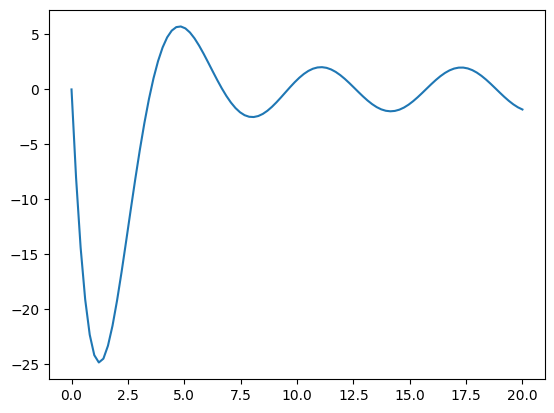
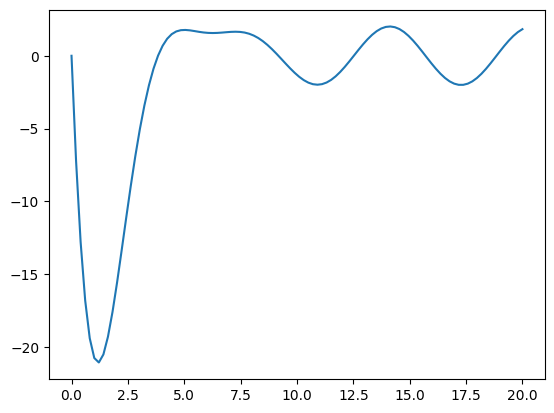
.

diff --git a/NSCI0005/python_book/html/searchindex.js b/NSCI0005/python_book/html/searchindex.js
@@ -1,1 +1,1 @@
-Search.setIndex({docnames:["1_introduction/cocalc","1_introduction/fundamentals","1_introduction/week_1","2_arrays_and_plots/arrays_and_plots","2_arrays_and_plots/hw_answers","2_arrays_and_plots/projectiles","2_arrays_and_plots/week_2","3_complex_numbers/hw_answers_6836","3_complex_numbers/notes","4_sequences_series/hw4_9511","4_sequences_series/notes","5_taylor_series/hw_a81","5_taylor_series/notes","6_partial_differentiation/hw_oasdg883","6_partial_differentiation/notes","7_odes_1/hw_aitthsg45","7_odes_1/notes","8_odes_2/hw_510736","8_odes_2/notes","intro"],envversion:{"sphinx.domains.c":2,"sphinx.domains.changeset":1,"sphinx.domains.citation":1,"sphinx.domains.cpp":5,"sphinx.domains.index":1,"sphinx.domains.javascript":2,"sphinx.domains.math":2,"sphinx.domains.python":3,"sphinx.domains.rst":2,"sphinx.domains.std":2,"sphinx.ext.intersphinx":1,"sphinxcontrib.bibtex":9,sphinx:56},filenames:["1_introduction\\cocalc.md","1_introduction\\fundamentals.md","1_introduction\\week_1.md","2_arrays_and_plots\\arrays_and_plots.md","2_arrays_and_plots\\hw_answers.ipynb","2_arrays_and_plots\\projectiles.ipynb","2_arrays_and_plots\\week_2.md","3_complex_numbers\\hw_answers_6836.ipynb","3_complex_numbers\\notes.ipynb","4_sequences_series\\hw4_9511.ipynb","4_sequences_series\\notes.ipynb","5_taylor_series\\hw_a81.ipynb","5_taylor_series\\notes.ipynb","6_partial_differentiation\\hw_oasdg883.ipynb","6_partial_differentiation\\notes.ipynb","7_odes_1\\hw_aitthsg45.ipynb","7_odes_1\\notes.ipynb","8_odes_2\\hw_510736.ipynb","8_odes_2\\notes.ipynb","intro.md"],objects:{},objnames:{},objtypes:{},terms:{"0":[0,1,3,4,5,7,8,9,10,11,12,14,15,16,17,18],"0000000000000002j":8,"0000000000000004":8,"00000000e":10,"00763947766738815":11,"01":10,"02":10,"03":10,"04":10,"05":10,"0j":8,"0x194c22fd048":16,"0x1aa78980e48":10,"0x1aa7ad067c8":10,"0x1ebde029448":7,"0x1f4dcda0308":8,"0x20725333748":15,"0x207253d4748":15,"0x270faac4608":17,"0x2b986fe4988":3,"1":[0,1,3,4,5,7,9,11,13,15],"10":[1,3,4,5,10,14,15,16,18],"100":[4,5,9,11,12,13,14,17,18],"1000":[1,16],"101":9,"10351562e":10,"11":[3,8],"115":4,"12":5,"1200000":1,"12500000e":10,"139":15,"13j":7,"14":3,"15":[0,3,4,10,15,16,18],"16":[3,7,15],"17":[14,15],"18":3,"1a":9,"1b":9,"1c":9,"1j":[7,8],"2":[0,1,7,12,13,15,16,17,18],"20":[8,9,14,17],"200":5,"21":3,"210":4,"21j":7,"220":4,"22070312e":10,"23":0,"230":4,"24":10,"25":3,"25000000e":10,"258":4,"260":4,"262":4,"27":3,"2e6":1,"2e9":5,"2m":18,"2x":18,"2y":14,"3":[0,1,3,4,5,9,10,11,12,13,14,15,17,18],"33333333":10,"34":1,"34e":1,"35":1,"365":5,"37":1,"3893006300":8,"39":5,"3j":7,"3x":0,"4":[0,1,4,5,8,9,12],"40":17,"400":5,"44140625e":10,"4455":1,"45":1,"46":4,"49":3,"4mk":18,"5":[1,3,8,9,10,13,14,15,17,18],"50":[3,9,10,13,15],"500":[0,9],"50000":0,"50000000e":10,"512":1,"56250000e":10,"5e6":1,"5j":7,"5x":1,"6":[1,3,10,11,12,15],"60j":8,"66666667":10,"6i":8,"6j":8,"7":[3,10,12],"70":1,"7071067811865476":8,"7071067811865476j":8,"7071067811865477":8,"7071067811865477j":8,"71428571":10,"7172926344657":4,"71828":10,"74":3,"75":[3,10,13],"76562500e":10,"77777778":10,"8":[1,3,7,10],"80":18,"81":[3,4,5],"81250000e":10,"81818182":10,"83333333":10,"8369701987210297e":3,"84615385":10,"85714286":10,"86666667":10,"875":10,"88235294":10,"88281250e":10,"88888889":10,"89473684":10,"9":[1,3,4,10,15],"9047619":10,"90625000e":10,"90909091":10,"91304348":10,"91666667":10,"92":10,"92307692":10,"92592593":10,"92857143":10,"93103448":10,"93333333":10,"93548387":10,"9375":10,"93939394":10,"94117647":10,"94285714":10,"94444444":10,"94594595":10,"94736842":10,"94871795":10,"95":10,"95121951":10,"95238095":10,"95312500e":10,"95348837":10,"95454545":10,"95555556":10,"95652174":10,"95744681":10,"95833333":10,"95918367":10,"96":10,"96875":10,"984375":10,"99":1,"9921875":10,"99609375":10,"99804688":10,"99902344":10,"99951172":10,"99975586":10,"99987793":10,"99993896":10,"case":[1,3],"class":8,"default":1,"do":[0,1,5,8],"final":[0,3,5,8,16],"float":[0,1,3],"function":[0,1,3,5,8,10,12,14],"import":[0,1,4,5,7,8,9,10,11,12,13,14,15,16,17,18],"int":1,"long":0,"new":[1,3,5,10],"return":[0,3],"try":[0,3,8,10,14],A:[0,1,3,4,5,8,12,14,16,17,18,19],And:14,As:[0,10],At:16,But:10,By:[0,3,4,5,12,14,18],For:[0,1,3,5,8,10,12,14],If:[0,1,3,10,18],In:[0,3,8,16],It:[0,1],On:18,One:3,That:[5,16],The:[0,1,3,5,8,10,12,14,16,18],Then:[0,5,16,18],To:[0,3,5,10],_:1,__counter__:5,__main__:15,__name__:15,a_n:10,abl:[0,1,3],about:[0,1],abov:[4,5,18],absolu:5,ac:0,acceler:[4,5],accept:4,access:[0,3,10],accident:1,accord:4,account:0,accur:4,achiev:5,add:[3,5],addit:[1,3,8],address:0,advic:0,ae:16,after:[0,1,3,12],ag:1,again:3,against:[5,18],air:4,albeit:10,algorithm:0,alia:3,alias:3,align:[5,18],all:[0,1,8,10],allow:[0,3,18],alpha:[0,1],alreadi:0,also:[0,3,5,18],alwai:[0,1,8],an:[0,1,3,4,5,8,10,12,14,16,18],angl:[4,15,16,18],ani:[0,3,4,5,16],anoth:[0,1,5,8,14,18],answer:[3,5,8],anyth:8,appdata:[8,11,15],appear:[0,1,10],append:1,appli:3,appropri:0,approx:5,approxim:[4,12],ar:[0,1,3,5,8,10,16,18],arang:[3,5,9,10],arbitrari:[16,18],argand:8,argument:[1,3,8],arithmet:3,around:5,arrai:[0,4,10,12,16,18],arrow:[0,15,16,18],ask:0,assign:1,assum:5,asterisk:0,astronomynot:5,asymptot:0,attempt:0,automat:0,awai:0,ax:[3,5,7,8],axhlin:[7,8],axi:[4,5,7,8,12,16],axvlin:[7,8],b:[1,3,5,9,16,17,18],back:0,bad:1,barnslei:0,barnsley_fern:0,base:3,basic:3,beauti:0,becaus:[0,1,3,8,16],been:0,befor:[0,3,8],begin:[0,3,5,18],behaviour:0,below:[0,1,5,16],best:0,beta:[0,18],better:[3,12],between:[0,1,3,4,5],bewar:1,bidma:1,black:[7,8],blue:[0,18],bodi:5,bold:0,book:19,border:0,both:[1,3],bottom:0,bound:10,box:0,bracket:[1,3],braket:3,breadcrumb:0,browser:0,built:[1,3],builtin:1,bullet:0,button:0,c:[1,3,11,15],calcul:[1,3,5,8,10,12,13,14,18],call:[0,1,3,5,8,10],calul:5,camelcas:1,can:[0,1,3,4,5,8,10,12,14,18],cannon:5,cannot:1,capitalis:1,care:3,carri:[1,3],cartesian:8,caus:14,cdot:[10,12],cell:[0,1],certainli:10,chang:[0,1,3,5],chapter:[0,1,3],charact:1,check:[3,5,16],choic:3,choos:[0,5],circl:8,circular:5,cla:5,clabel:[13,14],clear:10,click:0,close:[3,5],cloud:0,cm:0,co:[3,4,5,17,18],cocalc:[1,3],code:[0,1,3,4,5,8,12,14,18],coeffici:18,collect:[3,7,8,10],color:[7,8],com:[0,5],combin:0,comfort:0,comma:1,command:[0,3],common:3,compar:14,compat:0,complet:[0,1,3,5],compris:18,comput:[0,1,3],condit:18,confirm:0,consid:[0,3,16],consist:1,constant:[3,4,5,16,18],construct:[3,5],contain:[0,1,3,5,19],continu:[0,10],contour:[13,14],control:1,conveni:3,convent:1,converg:10,convert:0,convinc:10,coordin:[3,4,5,8,16],copi:[0,5],corner:0,correct:[0,1,4],correctli:4,could:[5,10],cours:[3,10],creat:[1,3,5,8,16],cross:3,cs:[13,14],ctrl:0,cube:8,cumsum:[9,10],cumul:10,current:[0,1],curv:[3,14,16,18],customari:3,customis:3,d:[3,5,16,18],dai:5,damp:18,dash:1,data:[1,3],datapoint:3,decim:[1,3],deduct:4,def:[3,5],defin:[3,8,10,14,18],definit:3,degre:3,delet:0,denot:[0,8],deriv:16,describ:3,descript:[0,1],desir:0,detail:5,determin:[0,1,3,4,8,14],devic:5,di_by_dt:17,diagram:8,dialog:0,diamet:5,didn:0,differ:[0,1,3,4],dimens:14,direct:[0,16,18],directli:8,displac:18,displai:[1,5,10,14],displaystyl:[8,10,16],distanc:4,distinguish:1,divid:[1,11,15],divis:[1,8],doe:[3,10,14],doesn:[8,10],dollar:0,don:[0,14],done:3,doubl:[0,1],double_spe:1,down:0,draft:0,draw:0,dropdown:0,due:[4,5],dv_by_dt:18,dx:[0,15,16],dx_by_dt:18,dy:[15,16],e:[0,1,3,8,9,10,18],each:[0,1,3,4,5,13,14,16,18],earth:5,easi:[8,10],either:[0,3],element:10,els:8,elsewher:3,email:0,enclos:0,encount:[11,15],end:[0,1,3,5,18],endpoint:3,ensur:16,enter:0,entir:0,equal:[1,3,5,7,8,16],equat:[0,1,3,5],error:[0,1,4,5],esc:0,especi:5,essenti:0,estim:[3,5],etc:0,evalu:[1,8],even:8,evenli:[3,5],ever:3,everi:[0,1,8],exact:5,exactli:[3,10],exampl:[0,1,3,5,8,10,12,16],execut:4,exercis:1,exp:[3,4,7,8,9,15,16,17],expect:[0,10],experi:[0,3,14],explain:8,explicit:10,explor:0,expon:1,exponent:8,exponenti:0,express:[0,3,8],extend:0,extens:[0,3],extract:8,extrem:3,f1:12,f2:12,f3:12,f4:12,f:[11,12,14,16],fact:3,factor:16,factori:[9,10],fals:1,far:5,featur:0,fern:0,few:10,fifteen:16,fig:[5,13,14],figsiz:[5,11,13,14],figur:[5,7,8,11,13,14,17],file:[1,3,5],filenam:5,find:[0,1,4,5,16,18],finit:[10,12],fire:5,first:[0,1,3,5,10,12,18],first_solut:1,firstnam:0,flawlessli:0,flow:16,flush:1,folder:[0,1,3],follow:[0,1,3,4,5,8,12,16],forcibl:1,form:[0,8,16],formula:10,found:[3,5],four:1,frac:[0,1,3,5,8,10,12,16,18],fraction:0,frame:5,from:[0,1,3,5,14,16,18],full:0,funcanim:5,further:[3,4],g:[4,5],ganim:5,gather:3,gca:[7,8],gener:[0,3,5,14,16,18],get:[5,8],gif:5,give:[0,1,18],given:[3,5,8,10,16,18],goal:5,good:1,graph:[3,4,5,8,16,18],graviti:[4,5],greek:0,green:0,grid:[7,8,16,18],ground:[4,5],grow:3,growth:0,gt:5,ha:[0,1,10,14,16,18],habit:8,half:0,hand:[0,3],handi:10,happen:[0,3],have:[0,3,5,10,18],head:0,heavenli:5,height:5,help:0,here:[3,4,5],hierarch:0,high:3,hint:1,hit:4,homework:[0,9],horizont:5,host:0,how:[0,1,3,5,8],howev:[0,4],htm:5,html:5,http:5,human:0,hyperbol:14,i:[8,17],i_0:17,i_app:17,idea:1,ident:0,identifi:0,illustr:5,imag:[7,8],imagemagick:5,imaginari:8,img:5,immedi:0,imshow:0,inclu:1,includ:[0,1,3,4,5,8,12],incorrectli:5,increas:[1,10],inde:10,indic:0,individu:0,infinit:12,inform:4,infti:[0,10],inherit:0,initi:[4,5,18],input:[3,14],insert:1,insid:3,inspect:0,instead:[0,8],instruct:[0,4,16],int_:0,integ:1,integr:[0,16],interest:5,interv:[3,5],introduc:[3,5,18],invert:5,investig:[0,10],ipykernel_31848:8,ipykernel_launch:[11,15],ipynb:[0,1],ipython:[0,5],ital:0,its:[0,1,5,8,10,12],iy:8,j:8,jupyt:0,jupyterbook:0,just:[0,5],k:[0,16,18],kebab:1,kei:[0,5],kernel:0,keyword:[1,3],kg:18,known:0,kt:0,kx:18,ky:16,l:16,label:[3,5],lah:0,lai:0,lambda:0,languag:[0,3],larg:1,last:[0,1,5,8,18],lastnam:0,later:1,latex:0,latter:3,launch:4,ldot:[8,10],learn:1,left:[0,1,8,16,18],legal:1,len:5,length:[5,15,16],leq:18,less:5,let:[1,3,5,8,10,16,18],letter:[0,1],level:[13,14],li:3,lib:[11,15],librari:[0,8,10],licenc:0,lie:8,like:[0,1,3,5,8],lim_:10,limit:[4,5,7,8,10,12,13,14,16],line2d:[3,15,17],line:[0,3,5,8,14,15,16,17],link:5,linspac:[3,4,5,11,12,13,14,15,16,17,18],linux:0,list:[0,3,13,14],liter:1,littl:5,ll:[0,5],ln:[3,10],local:[8,11,14,15],locat:[1,3],log10:3,log:[3,10,11,15],logarithm:3,login:0,logist:[3,16],look:[0,1,8],lot:0,lower:[1,3,4],m:[0,4,5,18],mac:0,mai:[0,3],main:[1,3],maintain:1,make:[1,5,8],mani:[1,3],manner:0,mantissa:1,map:14,mark:4,markdown:0,markup:0,mass:18,materi:19,math:0,mathbb:14,mathemat:[0,1,3,8,10,19],mathrm:[4,5,16,18],matplotlib:[4,5,7,8,9,10,11,12,13,14,15,16,17,18],mechan:5,memori:1,menu:0,mercuri:5,meshgrid:[13,14,15,16,18],mess:0,messag:0,method:[3,10],metr:5,might:[0,1],million:1,minimum:14,mode:0,model:[0,5],modul:[1,8],modulu:8,moon:5,more:[1,3,5,10,12],most:[3,8,14],motion:5,mous:0,move:0,mu:4,much:0,multipl:[1,3,8],must:[0,8],n:[1,5,8,9,10,18],name:[0,1,3,8],nameerror:8,natsciteach:[11,15],natur:[3,19],navig:0,nb:4,nearest:5,necessari:4,need:[0,3,5,10],neg:1,never:10,newlin:1,next:[0,5,8,12,16],none:0,nonsens:1,normal:0,notat:1,note:[1,3,8],notebook:[1,3,5,8],noth:0,now:0,np:[3,4,5,7,8,9,10,11,12,13,14,15,16,17,18],npt:0,nsci0005:[0,19],number:[0,3,5,10,12],numer:1,numpi:[4,5,7,8,9,10,11,12,13,14,15,16,17,18],object:[1,5,13,14],obtain:3,od:18,often:[0,1],omega:[17,18],onc:3,one:[0,3,5,8,18],ones:[15,16],onli:[0,1,3],onlin:0,open:[0,5],oper:[0,1,3,8],operand:3,option:[0,1],orang:18,orbit:5,order:[1,4,18],ordinari:0,origin:1,other:0,otherwis:1,our:[1,5],ourselv:10,out:[1,3],output:[0,14],own:0,p:[0,3,5],p_0:0,packag:[5,11,15],pair:14,paraboloid:14,paramet:[3,5,14],part:[1,8],partial:10,pascalcas:1,pass:3,past:0,pathcollect:[7,8,10],pattern:8,pc:0,perform:[1,3],period:[5,18],person:0,physic:5,pi:[0,3,4,5,7,8,12],pictur:0,place:[1,3],planet:5,platform:0,plot:[0,4,5,7,10,11,12,14,15,16,17,18],plt:[0,3,4,5,7,8,9,10,11,12,13,14,15,16,17,18],point:[0,1,3,5,14,16,18],popul:0,portion:3,posit:[5,18],power:[0,1,8],practic:[0,1,3],pre:0,prefix:3,preinstal:0,press:0,previou:[0,8],print:[1,3,5,8,10],probabl:3,problem:[0,14],produc:[0,3],profil:0,program:[0,3,5,11,15],project:[0,1],projectil:4,pronounc:0,prove:10,provid:[0,3],put:0,py:[8,11,15],pyplot:[3,4,5,7,8,9,10,11,12,13,14,15,16,17,18],python37:[11,15],python:[0,1,3,4,5,8,10,11,12,15,16,19],quadrat:1,question:8,quickest:8,quiver:[15,16,18],quot:1,r:[3,14],radian:4,radiu:8,ran:0,randint:5,random:5,rang:[12,16],rate:0,ration:0,re:[0,3,5],reach:5,read:0,readabl:[0,1],real:[7,8],reassur:10,recal:10,recent:8,recognis:3,red:0,reduc:3,rel:5,relationship:5,releas:18,reli:0,remain:16,remov:[1,14],renam:1,render:0,repeatedli:[0,4],replac:1,repres:[0,1,5,18],represent:16,requir:5,resist:4,resourc:0,respect:5,restart:0,restrict:[3,12],result:[0,1,3,4],rewrit:18,right:[0,1,8,16,18],root:3,rough:3,rule:1,run:[0,1,5],runtimewarn:[11,15],s:[0,1,3,4,5,8,10,14,16,18],saddl:14,same:[1,18],sandbox:0,satisfi:18,save:5,scale:3,scatter:[5,7,8,9,10],scienc:19,scientif:[1,3],scientist:3,scipi:[9,10],scratch:0,search:0,secnd_solut:1,second:[0,1,5,18],section:[5,8],see:[0,1,3,5],segment:16,select:0,sensit:1,sep:1,separ:[0,1,5],seper:1,seprat:3,sequenc:[3,5],set:[0,1,4,5,7,8,13,14,16],set_aspect:[7,8],setup:0,shape:[0,3,15,16],sheet:14,shift:0,should:[0,1,3,4,5,8],show:[0,3,14,18],shown:[0,4,5],side:1,sign:[0,1],similar:[0,18],simpl:5,simul:5,sin:[4,5,12,17,18],sinc:8,singl:[0,1,3],site:[0,11,15],size:3,sketch:[3,16],slowli:10,small:[1,16],snake_cas:1,so:[0,1,3,4,5],softwar:0,solar:5,solut:9,solv:16,some:[0,1,16],someth:[0,3],somewher:3,sp:[9,10],space:[1,3,5],spars:0,special:[0,9,10],specifi:[1,3,5],speed:[1,4,5],split:0,spring:18,sqrt:[1,3,5,8,9,11,15,17,18],squar:[3,8],src:5,standard:3,start:[0,1,3,5],statement:[1,3,8],stationari:[14,18],stdout:1,step:[3,5],stick:[0,1],stop:0,storag:1,str:5,straight:[0,8],stream:1,string:1,student:[0,4],studi:[1,5],style:3,submiss:4,submit:4,substitut:[16,18],subtract:[1,8],suggest:16,suitabl:[3,4,5],sum:[10,12],sum_:10,sun:5,support:[0,1,4],suppos:[3,8,10,18],sure:[0,5,8],surfac:14,surround:0,sy:1,symbol:[0,1,8],syntax:0,system:[0,5,18],t0:3,t1:11,t3:11,t:[0,1,3,4,5,8,10,14,17,18],t_0:3,tabl:[1,5],tablesb:5,take:[1,3],task:5,taylor:12,tech:0,techniqu:0,temp:8,term:[0,10,12],test:1,tex:0,text:[0,1,3,9,11,13,14,18],than:[3,5],thank:0,them:[5,10],therefor:[0,3,10],theta:[0,4],thi:[0,1,3,4,5,8,10,14,16,19],think:8,three:[1,14],time:[0,1,5,18],times10:1,titl:[0,4,5,18],togeth:0,toolbar:0,top:[0,3,8],traceback:8,trackpad:0,trajectori:[5,18],tree:0,trial:[4,5],true_divid:[11,15],truncat:12,turn:0,two:[0,1,3,5,8,12,16,18],type:[0,3,8],typeset:0,u:8,ucl:0,uk:0,undamp:18,under:5,underneath:1,underscor:1,understand:[0,1,14],undo:0,unlik:5,until:[0,5],unusu:1,up:[0,7,8],updat:1,upper:3,us:[1,4,5,8,10,12,14,16,18],usepackag:0,user:[11,15],usual:8,v0:4,v:[1,18],v_0:5,v_0t:5,valu:[1,3,4,5,8,10,12,13,14,16,18],variabl:[0,3,5,8,18],variou:8,vast:0,vector:[3,18],veloc:[5,18],venu:5,veri:[0,1,3,10],verifi:3,virtual:0,visual:16,visualis:14,w:[7,8],wa:0,wai:[0,8,12,14],want:[0,3,8],we:[0,1,3,4,5,8,10,12,14,16,18],web:0,week1:[0,1],week1_python_fundament:1,week2:3,week:[0,9,14],well:[0,1,12],what:[8,10,14],when:[0,1,3,8],where:[0,1,3,5,16,18],whether:1,which:[0,1,3,5,8,10,14,18],whichev:3,whole:[1,3,5],whose:16,wide:[0,3],width:3,wish:0,within:0,without:10,won:[1,5],word:[0,1],work:[0,1,3,8],worksheet:8,workshop:0,worri:[0,14],would:[5,8],write:[0,1,5,12],writer:5,www:[0,5],x0:[13,14],x:[0,1,3,4,5,8,9,11,12,13,14,15,16,18],x_mercuri:5,xlabel:[3,4,5,9,11,18],xlim:[3,4,5,7,8],xy:[15,16,18],y0:[13,14],y1:[15,16],y2:[15,16],y3:16,y:[0,3,4,5,8,12,13,14,15,16],y_0:5,y_mercuri:5,yet:0,ylabel:[3,4,9,11,18],ylim:[3,4,5,7,8,12,16],you:[0,1,3,4,5,8,10,14],your:[0,1,3,4,5,8,14],yourself:10,z0:7,z1:7,z2:7,z3:7,z:[1,8,13,14],z_2:8,z_3:8,z_4:8,zero:[3,5,11,15],zoom:[3,4]},titles:["<span class=\"section-number\">1.1. </span>Using CoCalc","<span class=\"section-number\">1.2. </span>Fundamentals","<span class=\"section-number\">1. </span>Introduction to Computing","<span class=\"section-number\">2.1. </span>Arrays and plots","Week 2 Homework Answers","<span class=\"section-number\">2.2. </span>Projectiles","<span class=\"section-number\">2. </span>Arrays and Plotting","Week 3 Homework Solutions","<span class=\"section-number\">3. </span>Complex Numbers","&lt;no title&gt;","<span class=\"section-number\">4. </span>Sequences and Series","Week 5 Homework Solutions","<span class=\"section-number\">5. </span>Power Series","Week 6 Homework Solutions","<span class=\"section-number\">6. </span>Multivariable Calculus","Week 7 Homework Solutions","<span class=\"section-number\">7. </span>Differential Equations I","Week 8 Homework Solutions","<span class=\"section-number\">8. </span>Differential Equations II","Introduction"],titleterms:{"1":[8,10,12,14,16,18],"2":[3,4,5,8,10,14],"3":[7,8],"4":[3,10],"5":[5,11,12],"6":[5,13,14],"7":[5,15,16,18],"8":[5,17,18],"9":5,"import":3,"new":0,anim:5,answer:4,arithmet:[1,8],arrai:[3,5,6],axi:3,calculu:14,cocalc:0,complex:8,comput:2,creat:0,defin:1,differenti:[16,18],edit:0,equat:[16,18],exercis:[0,3,5,8,10,12,14,16,18],express:1,field:16,file:0,format:0,fun:5,fundament:1,get:1,help:1,homework:[4,7,11,13,15,17],i:16,ii:18,initi:0,introduct:[2,19],keyboard:0,librari:3,limit:3,manag:0,matplotlib:3,multivari:14,notebook:0,number:[1,8],numer:3,numpi:3,option:5,orreri:5,phase:18,plane:18,plot:[3,6,8],power:12,problem:18,projectil:5,question:18,rang:3,see:18,sequenc:10,seri:[10,12],set:3,shortcut:0,slope:16,solut:[0,1,3,5,7,8,10,11,12,13,14,15,16,17,18],step:0,thi:18,tip:0,type:1,us:[0,3],variabl:1,virtual:5,week:[4,7,11,13,15,17,18]}})
+Search.setIndex({docnames:["1_introduction/cocalc","1_introduction/fundamentals","1_introduction/week_1","2_arrays_and_plots/arrays_and_plots","2_arrays_and_plots/hw_answers","2_arrays_and_plots/projectiles","2_arrays_and_plots/week_2","3_complex_numbers/hw_answers_6836","3_complex_numbers/notes","4_sequences_series/hw4_9511","4_sequences_series/notes","5_taylor_series/hw_a81","5_taylor_series/notes","6_partial_differentiation/hw_oasdg883","6_partial_differentiation/notes","7_odes_1/hw_aitthsg45","7_odes_1/notes","8_odes_2/hw_510736","8_odes_2/notes","intro"],envversion:{"sphinx.domains.c":2,"sphinx.domains.changeset":1,"sphinx.domains.citation":1,"sphinx.domains.cpp":5,"sphinx.domains.index":1,"sphinx.domains.javascript":2,"sphinx.domains.math":2,"sphinx.domains.python":3,"sphinx.domains.rst":2,"sphinx.domains.std":2,"sphinx.ext.intersphinx":1,"sphinxcontrib.bibtex":9,sphinx:56},filenames:["1_introduction\\cocalc.md","1_introduction\\fundamentals.md","1_introduction\\week_1.md","2_arrays_and_plots\\arrays_and_plots.md","2_arrays_and_plots\\hw_answers.ipynb","2_arrays_and_plots\\projectiles.ipynb","2_arrays_and_plots\\week_2.md","3_complex_numbers\\hw_answers_6836.ipynb","3_complex_numbers\\notes.ipynb","4_sequences_series\\hw4_9511.ipynb","4_sequences_series\\notes.ipynb","5_taylor_series\\hw_a81.ipynb","5_taylor_series\\notes.ipynb","6_partial_differentiation\\hw_oasdg883.ipynb","6_partial_differentiation\\notes.ipynb","7_odes_1\\hw_aitthsg45.ipynb","7_odes_1\\notes.ipynb","8_odes_2\\hw_510736.ipynb","8_odes_2\\notes.ipynb","intro.md"],objects:{},objnames:{},objtypes:{},terms:{"0":[0,1,3,4,5,7,8,9,10,11,12,14,15,16,17,18],"0000000000000002j":8,"0000000000000004":8,"00000000e":10,"00763947766738815":11,"01":10,"02":10,"03":10,"04":10,"05":10,"0j":8,"0x194c22fd048":16,"0x1aa78980e48":10,"0x1aa7ad067c8":10,"0x1ebde029448":7,"0x1f4dcda0308":8,"0x20725333748":15,"0x207253d4748":15,"0x20ce1356e48":17,"0x270faac4608":[],"0x2b986fe4988":3,"1":[0,1,3,4,5,7,9,11,13,15],"10":[1,3,4,5,10,14,15,16,18],"100":[4,5,9,11,12,13,14,17,18],"1000":[1,16],"101":9,"10351562e":10,"11":[3,8],"115":4,"12":5,"1200000":1,"12500000e":10,"139":15,"13j":7,"14":3,"15":[0,3,4,10,15,16,18],"16":[3,7,15],"17":[14,15],"18":3,"1a":9,"1b":9,"1c":9,"1j":[7,8],"2":[0,1,7,12,13,15,16,17,18],"20":[8,9,14,17],"200":5,"21":3,"210":4,"21j":7,"220":4,"22070312e":10,"23":0,"230":4,"24":10,"25":3,"25000000e":10,"258":4,"260":4,"262":4,"27":3,"2e6":1,"2e9":5,"2m":18,"2x":18,"2y":14,"3":[0,1,3,4,5,9,10,11,12,13,14,15,17,18],"33333333":10,"34":1,"34e":1,"35":1,"365":5,"37":1,"3893006300":8,"39":5,"3j":7,"3x":0,"4":[0,1,4,5,8,9,12],"40":17,"400":5,"44140625e":10,"4455":1,"45":1,"46":4,"49":3,"4mk":18,"5":[1,3,8,9,10,13,14,15,17,18],"50":[3,9,10,13,15],"500":[0,9],"50000":0,"50000000e":10,"512":1,"56250000e":10,"5e6":1,"5j":7,"5x":1,"6":[1,3,10,11,12,15],"60j":8,"66666667":10,"6i":8,"6j":8,"7":[3,10,12],"70":1,"7071067811865476":8,"7071067811865476j":8,"7071067811865477":8,"7071067811865477j":8,"71428571":10,"7172926344657":4,"71828":10,"74":3,"75":[3,10,13],"76562500e":10,"77777778":10,"8":[1,3,7,10],"80":18,"81":[3,4,5],"81250000e":10,"81818182":10,"83333333":10,"8369701987210297e":3,"84615385":10,"85714286":10,"86666667":10,"875":10,"88235294":10,"88281250e":10,"88888889":10,"89473684":10,"9":[1,3,4,10,15],"9047619":10,"90625000e":10,"90909091":10,"91304348":10,"91666667":10,"92":10,"92307692":10,"92592593":10,"92857143":10,"93103448":10,"93333333":10,"93548387":10,"9375":10,"93939394":10,"94117647":10,"94285714":10,"94444444":10,"94594595":10,"94736842":10,"94871795":10,"95":10,"95121951":10,"95238095":10,"95312500e":10,"95348837":10,"95454545":10,"95555556":10,"95652174":10,"95744681":10,"95833333":10,"95918367":10,"96":10,"96875":10,"984375":10,"99":1,"9921875":10,"99609375":10,"99804688":10,"99902344":10,"99951172":10,"99975586":10,"99987793":10,"99993896":10,"case":[1,3],"class":8,"default":1,"do":[0,1,5,8],"final":[0,3,5,8,16],"float":[0,1,3],"function":[0,1,3,5,8,10,12,14],"import":[0,1,4,5,7,8,9,10,11,12,13,14,15,16,17,18],"int":1,"long":0,"new":[1,3,5,10],"return":[0,3],"try":[0,3,8,10,14],A:[0,1,3,4,5,8,12,14,16,17,18,19],And:14,As:[0,10],At:16,But:10,By:[0,3,4,5,12,14,18],For:[0,1,3,5,8,10,12,14],If:[0,1,3,10,18],In:[0,3,8,16],It:[0,1],On:18,One:3,That:[5,16],The:[0,1,3,5,8,10,12,14,16,18],Then:[0,5,16,18],To:[0,3,5,10],_:1,__counter__:5,__main__:15,__name__:15,a_n:10,abl:[0,1,3],about:[0,1],abov:[4,5,18],absolu:5,ac:0,acceler:[4,5],accept:4,access:[0,3,10],accident:1,accord:4,account:0,accur:4,achiev:5,add:[3,5],addit:[1,3,8],address:0,advic:0,ae:16,after:[0,1,3,12],ag:1,again:3,against:[5,18],air:4,albeit:10,algorithm:0,alia:3,alias:3,align:[5,18],all:[0,1,8,10],allow:[0,3,18],alpha:[0,1],alreadi:0,also:[0,3,5,18],alwai:[0,1,8],an:[0,1,3,4,5,8,10,12,14,16,18],angl:[4,15,16,18],ani:[0,3,4,5,16],anoth:[0,1,5,8,14,18],answer:[3,5,8],anyth:8,appdata:[8,11,15],appear:[0,1,10],append:1,appli:3,appropri:0,approx:5,approxim:[4,12],ar:[0,1,3,5,8,10,16,18],arang:[3,5,9,10],arbitrari:[16,18],argand:8,argument:[1,3,8],arithmet:3,around:5,arrai:[0,4,10,12,16,18],arrow:[0,15,16,18],ask:0,assign:1,assum:5,asterisk:0,astronomynot:5,asymptot:0,attempt:0,automat:0,awai:0,ax:[3,5,7,8],axhlin:[7,8],axi:[4,5,7,8,12,16],axvlin:[7,8],b:[1,3,5,9,16,17,18],back:0,bad:1,barnslei:0,barnsley_fern:0,base:3,basic:3,beauti:0,becaus:[0,1,3,8,16],been:0,befor:[0,3,8],begin:[0,3,5,18],behaviour:0,below:[0,1,5,16],best:0,beta:[0,18],better:[3,12],between:[0,1,3,4,5],bewar:1,bidma:1,black:[7,8],blue:[0,18],bodi:5,bold:0,book:19,border:0,both:[1,3],bottom:0,bound:10,box:0,bracket:[1,3],braket:3,breadcrumb:0,browser:0,built:[1,3],builtin:1,bullet:0,button:0,c:[1,3,11,15],calcul:[1,3,5,8,10,12,13,14,18],call:[0,1,3,5,8,10],calul:5,camelcas:1,can:[0,1,3,4,5,8,10,12,14,18],cannon:5,cannot:1,capitalis:1,care:3,carri:[1,3],cartesian:8,caus:14,cdot:[10,12],cell:[0,1],certainli:10,chang:[0,1,3,5],chapter:[0,1,3],charact:1,check:[3,5,16],choic:3,choos:[0,5],circl:8,circular:5,cla:5,clabel:[13,14],clear:10,click:0,close:[3,5],cloud:0,cm:0,co:[3,4,5,17,18],cocalc:[1,3],code:[0,1,3,4,5,8,12,14,18],coeffici:18,collect:[3,7,8,10],color:[7,8],com:[0,5],combin:0,comfort:0,comma:1,command:[0,3],common:3,compar:14,compat:0,complet:[0,1,3,5],compris:18,comput:[0,1,3],condit:18,confirm:0,consid:[0,3,16],consist:1,constant:[3,4,5,16,18],construct:[3,5],contain:[0,1,3,5,19],continu:[0,10],contour:[13,14],control:1,conveni:3,convent:1,converg:10,convert:0,convinc:10,coordin:[3,4,5,8,16],copi:[0,5],corner:0,correct:[0,1,4],correctli:4,could:[5,10],cours:[3,10],creat:[1,3,5,8,16],cross:3,cs:[13,14],ctrl:0,cube:8,cumsum:[9,10],cumul:10,current:[0,1],curv:[3,14,16,18],customari:3,customis:3,d:[3,5,16,18],dai:5,damp:18,dash:1,data:[1,3],datapoint:3,decim:[1,3],deduct:4,def:[3,5],defin:[3,8,10,14,18],definit:3,degre:3,delet:0,denot:[0,8],deriv:16,describ:3,descript:[0,1],desir:0,detail:5,determin:[0,1,3,4,8,14],devic:5,di_by_dt:17,diagram:8,dialog:0,diamet:5,didn:0,differ:[0,1,3,4],dimens:14,direct:[0,16,18],directli:8,displac:18,displai:[1,5,10,14],displaystyl:[8,10,16],distanc:4,distinguish:1,divid:[1,11,15],divis:[1,8],doe:[3,10,14],doesn:[8,10],dollar:0,don:[0,14],done:3,doubl:[0,1],double_spe:1,down:0,draft:0,draw:0,dropdown:0,due:[4,5],dv_by_dt:18,dx:[0,15,16],dx_by_dt:18,dy:[15,16],e:[0,1,3,8,9,10,18],each:[0,1,3,4,5,13,14,16,18],earth:5,easi:[8,10],either:[0,3],element:10,els:8,elsewher:3,email:0,enclos:0,encount:[11,15],end:[0,1,3,5,18],endpoint:3,ensur:16,enter:0,entir:0,equal:[1,3,5,7,8,16],equat:[0,1,3,5],error:[0,1,4,5],esc:0,especi:5,essenti:0,estim:[3,5],etc:0,evalu:[1,8],even:8,evenli:[3,5],ever:3,everi:[0,1,8],exact:5,exactli:[3,10],exampl:[0,1,3,5,8,10,12,16],execut:4,exercis:1,exp:[3,4,7,8,9,15,16,17],expect:[0,10],experi:[0,3,14],explain:8,explicit:10,explor:0,expon:1,exponent:8,exponenti:0,express:[0,3,8],extend:0,extens:[0,3],extract:8,extrem:3,f1:12,f2:12,f3:12,f4:12,f:[11,12,14,16],fact:3,factor:16,factori:[9,10],fals:1,far:5,featur:0,fern:0,few:10,fifteen:16,fig:[5,13,14],figsiz:[5,11,13,14],figur:[5,7,8,11,13,14,17],file:[1,3,5],filenam:5,find:[0,1,4,5,16,18],finit:[10,12],fire:5,first:[0,1,3,5,10,12,18],first_solut:1,firstnam:0,flawlessli:0,flow:16,flush:1,folder:[0,1,3],follow:[0,1,3,4,5,8,12,16],forcibl:1,form:[0,8,16],formula:10,found:[3,5],four:1,frac:[0,1,3,5,8,10,12,16,18],fraction:0,frame:5,from:[0,1,3,5,14,16,18],full:0,funcanim:5,further:[3,4],g:[4,5],ganim:5,gather:3,gca:[7,8],gener:[0,3,5,14,16,18],get:[5,8],gif:5,give:[0,1,18],given:[3,5,8,10,16,18],goal:5,good:1,graph:[3,4,5,8,16,18],graviti:[4,5],greek:0,green:0,grid:[7,8,16,18],ground:[4,5],grow:3,growth:0,gt:5,ha:[0,1,10,14,16,18],habit:8,half:0,hand:[0,3],handi:10,happen:[0,3],have:[0,3,5,10,18],head:0,heavenli:5,height:5,help:0,here:[3,4,5],hierarch:0,high:3,hint:1,hit:4,homework:[0,9],horizont:5,host:0,how:[0,1,3,5,8],howev:[0,4],htm:5,html:5,http:5,human:0,hyperbol:14,i:[8,17],i_0:17,i_app:17,idea:1,ident:0,identifi:0,illustr:5,imag:[7,8],imagemagick:5,imaginari:8,img:5,immedi:0,imshow:0,inclu:1,includ:[0,1,3,4,5,8,12],incorrectli:5,increas:[1,10],inde:10,indic:0,individu:0,infinit:12,inform:4,infti:[0,10],inherit:0,initi:[4,5,18],input:[3,14],insert:1,insid:3,inspect:0,instead:[0,8],instruct:[0,4,16],int_:0,integ:1,integr:[0,16],interest:5,interv:[3,5],introduc:[3,5,18],invert:5,investig:[0,10],ipykernel_31848:8,ipykernel_launch:[11,15],ipynb:[0,1],ipython:[0,5],ital:0,its:[0,1,5,8,10,12],iy:8,j:8,jupyt:0,jupyterbook:0,just:[0,5],k:[0,16,18],kebab:1,kei:[0,5],kernel:0,keyword:[1,3],kg:18,known:0,kt:0,kx:18,ky:16,l:16,label:[3,5],lah:0,lai:0,lambda:0,languag:[0,3],larg:1,last:[0,1,5,8,18],lastnam:0,later:1,latex:0,latter:3,launch:4,ldot:[8,10],learn:1,left:[0,1,8,16,18],legal:1,len:5,length:[5,15,16],leq:18,less:5,let:[1,3,5,8,10,16,18],letter:[0,1],level:[13,14],li:3,lib:[11,15],librari:[0,8,10],licenc:0,lie:8,like:[0,1,3,5,8],lim_:10,limit:[4,5,7,8,10,12,13,14,16],line2d:[3,15,17],line:[0,3,5,8,14,15,16,17],link:5,linspac:[3,4,5,11,12,13,14,15,16,17,18],linux:0,list:[0,3,13,14],liter:1,littl:5,ll:[0,5],ln:[3,10],local:[8,11,14,15],locat:[1,3],log10:3,log:[3,10,11,15],logarithm:3,login:0,logist:[3,16],look:[0,1,8],lot:0,lower:[1,3,4],m:[0,4,5,18],mac:0,mai:[0,3],main:[1,3],maintain:1,make:[1,5,8],mani:[1,3],manner:0,mantissa:1,map:14,mark:4,markdown:0,markup:0,mass:18,materi:19,math:0,mathbb:14,mathemat:[0,1,3,8,10,19],mathrm:[4,5,16,18],matplotlib:[4,5,7,8,9,10,11,12,13,14,15,16,17,18],mechan:5,memori:1,menu:0,mercuri:5,meshgrid:[13,14,15,16,18],mess:0,messag:0,method:[3,10],metr:5,might:[0,1],million:1,minimum:14,mode:0,model:[0,5],modul:[1,8],modulu:8,moon:5,more:[1,3,5,10,12],most:[3,8,14],motion:5,mous:0,move:0,mu:4,much:0,multipl:[1,3,8],must:[0,8],n:[1,5,8,9,10,18],name:[0,1,3,8],nameerror:8,natsciteach:[11,15],natur:[3,19],navig:0,nb:4,nearest:5,necessari:4,need:[0,3,5,10],neg:1,never:10,newlin:1,next:[0,5,8,12,16],none:0,nonsens:1,normal:0,notat:1,note:[1,3,8],notebook:[1,3,5,8],noth:0,now:0,np:[3,4,5,7,8,9,10,11,12,13,14,15,16,17,18],npt:0,nsci0005:[0,19],number:[0,3,5,10,12],numer:1,numpi:[4,5,7,8,9,10,11,12,13,14,15,16,17,18],object:[1,5,13,14],obtain:3,od:18,often:[0,1],omega:[17,18],onc:3,one:[0,3,5,8,18],ones:[15,16],onli:[0,1,3],onlin:0,open:[0,5],oper:[0,1,3,8],operand:3,option:[0,1],orang:18,orbit:5,order:[1,4,18],ordinari:0,origin:1,other:0,otherwis:1,our:[1,5],ourselv:10,out:[1,3],output:[0,14],own:0,p:[0,3,5],p_0:0,packag:[5,11,15],pair:14,paraboloid:14,paramet:[3,5,14],part:[1,8],partial:10,pascalcas:1,pass:3,past:0,pathcollect:[7,8,10],pattern:8,pc:0,perform:[1,3],period:[5,18],person:0,physic:5,pi:[0,3,4,5,7,8,12],pictur:0,place:[1,3],planet:5,platform:0,plot:[0,4,5,7,10,11,12,14,15,16,17,18],plt:[0,3,4,5,7,8,9,10,11,12,13,14,15,16,17,18],point:[0,1,3,5,14,16,18],popul:0,portion:3,posit:[5,18],power:[0,1,8],practic:[0,1,3],pre:0,prefix:3,preinstal:0,press:0,previou:[0,8],print:[1,3,5,8,10],probabl:3,problem:[0,14],produc:[0,3],profil:0,program:[0,3,5,11,15],project:[0,1],projectil:4,pronounc:0,prove:10,provid:[0,3],put:0,py:[8,11,15],pyplot:[3,4,5,7,8,9,10,11,12,13,14,15,16,17,18],python37:[11,15],python:[0,1,3,4,5,8,10,11,12,15,16,19],quadrat:1,question:8,quickest:8,quiver:[15,16,18],quot:1,r:[3,14],radian:4,radiu:8,ran:0,randint:5,random:5,rang:[12,16],rate:0,ration:0,re:[0,3,5],reach:5,read:0,readabl:[0,1],real:[7,8],reassur:10,recal:10,recent:8,recognis:3,red:0,reduc:3,rel:5,relationship:5,releas:18,reli:0,remain:16,remov:[1,14],renam:1,render:0,repeatedli:[0,4],replac:1,repres:[0,1,5,18],represent:16,requir:5,resist:4,resourc:0,respect:5,restart:0,restrict:[3,12],result:[0,1,3,4],rewrit:18,right:[0,1,8,16,18],root:3,rough:3,rule:1,run:[0,1,5],runtimewarn:[11,15],s:[0,1,3,4,5,8,10,14,16,18],saddl:14,same:[1,18],sandbox:0,satisfi:18,save:5,scale:3,scatter:[5,7,8,9,10],scienc:19,scientif:[1,3],scientist:3,scipi:[9,10],scratch:0,search:0,secnd_solut:1,second:[0,1,5,18],section:[5,8],see:[0,1,3,5],segment:16,select:0,sensit:1,sep:1,separ:[0,1,5],seper:1,seprat:3,sequenc:[3,5],set:[0,1,4,5,7,8,13,14,16],set_aspect:[7,8],setup:0,shape:[0,3,15,16],sheet:14,shift:0,should:[0,1,3,4,5,8],show:[0,3,14,18],shown:[0,4,5],side:1,sign:[0,1],similar:[0,18],simpl:5,simul:5,sin:[4,5,12,17,18],sinc:8,singl:[0,1,3],site:[0,11,15],size:3,sketch:[3,16],slowli:10,small:[1,16],snake_cas:1,so:[0,1,3,4,5],softwar:0,solar:5,solut:9,solv:16,some:[0,1,16],someth:[0,3],somewher:3,sp:[9,10],space:[1,3,5],spars:0,special:[0,9,10],specifi:[1,3,5],speed:[1,4,5],split:0,spring:18,sqrt:[1,3,5,8,9,11,15,17,18],squar:[3,8],src:5,standard:3,start:[0,1,3,5],statement:[1,3,8],stationari:[14,18],stdout:1,step:[3,5],stick:[0,1],stop:0,storag:1,str:5,straight:[0,8],stream:1,string:1,student:[0,4],studi:[1,5],style:3,submiss:4,submit:4,substitut:[16,18],subtract:[1,8],suggest:16,suitabl:[3,4,5],sum:[10,12],sum_:10,sun:5,support:[0,1,4],suppos:[3,8,10,18],sure:[0,5,8],surfac:14,surround:0,sy:1,symbol:[0,1,8],syntax:0,system:[0,5,18],t0:3,t1:11,t3:11,t:[0,1,3,4,5,8,10,14,17,18],t_0:3,tabl:[1,5],tablesb:5,take:[1,3],task:5,taylor:12,tech:0,techniqu:0,temp:8,term:[0,10,12],test:1,tex:0,text:[0,1,3,9,11,13,14,18],than:[3,5],thank:0,them:[5,10],therefor:[0,3,10],theta:[0,4],thi:[0,1,3,4,5,8,10,14,16,19],think:8,three:[1,14],time:[0,1,5,18],times10:1,titl:[0,4,5,18],togeth:0,toolbar:0,top:[0,3,8],traceback:8,trackpad:0,trajectori:[5,18],tree:0,trial:[4,5],true_divid:[11,15],truncat:12,turn:0,two:[0,1,3,5,8,12,16,18],type:[0,3,8],typeset:0,u:8,ucl:0,uk:0,undamp:18,under:5,underneath:1,underscor:1,understand:[0,1,14],undo:0,unlik:5,until:[0,5],unusu:1,up:[0,7,8],updat:1,upper:3,us:[1,4,5,8,10,12,14,16,18],usepackag:0,user:[11,15],usual:8,v0:4,v:[1,18],v_0:5,v_0t:5,valu:[1,3,4,5,8,10,12,13,14,16,18],variabl:[0,3,5,8,18],variou:8,vast:0,vector:[3,18],veloc:[5,18],venu:5,veri:[0,1,3,10],verifi:3,virtual:0,visual:16,visualis:14,w:[7,8],wa:0,wai:[0,8,12,14],want:[0,3,8],we:[0,1,3,4,5,8,10,12,14,16,18],web:0,week1:[0,1],week1_python_fundament:1,week2:3,week:[0,9,14],well:[0,1,12],what:[8,10,14],when:[0,1,3,8],where:[0,1,3,5,16,18],whether:1,which:[0,1,3,5,8,10,14,18],whichev:3,whole:[1,3,5],whose:16,wide:[0,3],width:3,wish:0,within:0,without:10,won:[1,5],word:[0,1],work:[0,1,3,8],worksheet:8,workshop:0,worri:[0,14],would:[5,8],write:[0,1,5,12],writer:5,www:[0,5],x0:[13,14],x:[0,1,3,4,5,8,9,11,12,13,14,15,16,18],x_mercuri:5,xlabel:[3,4,5,9,11,18],xlim:[3,4,5,7,8],xy:[15,16,18],y0:[13,14],y1:[15,16],y2:[15,16],y3:16,y:[0,3,4,5,8,12,13,14,15,16],y_0:5,y_mercuri:5,yet:0,ylabel:[3,4,9,11,18],ylim:[3,4,5,7,8,12,16],you:[0,1,3,4,5,8,10,14],your:[0,1,3,4,5,8,14],yourself:10,z0:7,z1:7,z2:7,z3:7,z:[1,8,13,14],z_2:8,z_3:8,z_4:8,zero:[3,5,11,15],zoom:[3,4]},titles:["<span class=\"section-number\">1.1. </span>Using CoCalc","<span class=\"section-number\">1.2. </span>Fundamentals","<span class=\"section-number\">1. </span>Introduction to Computing","<span class=\"section-number\">2.1. </span>Arrays and plots","Week 2 Homework Answers","<span class=\"section-number\">2.2. </span>Projectiles","<span class=\"section-number\">2. </span>Arrays and Plotting","Week 3 Homework Solutions","<span class=\"section-number\">3. </span>Complex Numbers","&lt;no title&gt;","<span class=\"section-number\">4. </span>Sequences and Series","Week 5 Homework Solutions","<span class=\"section-number\">5. </span>Power Series","Week 6 Homework Solutions","<span class=\"section-number\">6. </span>Multivariable Calculus","Week 7 Homework Solutions","<span class=\"section-number\">7. </span>Differential Equations I","Week 8 Homework Solutions","<span class=\"section-number\">8. </span>Differential Equations II","Introduction"],titleterms:{"1":[8,10,12,14,16,18],"2":[3,4,5,8,10,14],"3":[7,8],"4":[3,10],"5":[5,11,12],"6":[5,13,14],"7":[5,15,16,18],"8":[5,17,18],"9":5,"import":3,"new":0,anim:5,answer:4,arithmet:[1,8],arrai:[3,5,6],axi:3,calculu:14,cocalc:0,complex:8,comput:2,creat:0,defin:1,differenti:[16,18],edit:0,equat:[16,18],exercis:[0,3,5,8,10,12,14,16,18],express:1,field:16,file:0,format:0,fun:5,fundament:1,get:1,help:1,homework:[4,7,11,13,15,17],i:16,ii:18,initi:0,introduct:[2,19],keyboard:0,librari:3,limit:3,manag:0,matplotlib:3,multivari:14,notebook:0,number:[1,8],numer:3,numpi:3,option:5,orreri:5,phase:18,plane:18,plot:[3,6,8],power:12,problem:18,projectil:5,question:18,rang:3,see:18,sequenc:10,seri:[10,12],set:3,shortcut:0,slope:16,solut:[0,1,3,5,7,8,10,11,12,13,14,15,16,17,18],step:0,thi:18,tip:0,type:1,us:[0,3],variabl:1,virtual:5,week:[4,7,11,13,15,17,18]}})

diff --git a/NSCI0005/python_book/html/8_odes_2/hw_510736.html b/NSCI0005/python_book/html/8_odes_2/hw_510736.html
@@ -365,7 +365,7 @@ title="Print to PDF"
 <span class="n">A</span> <span class="o">=</span> <span class="n">B</span><span class="o">/</span><span class="p">(</span><span class="mi">2</span><span class="o">*</span><span class="n">omega</span><span class="p">)</span>
 <span class="n">I</span> <span class="o">=</span> <span class="n">np</span><span class="o">.</span><span class="n">exp</span><span class="p">(</span><span class="o">-</span><span class="n">t</span><span class="o">/</span><span class="mi">2</span><span class="p">)</span> <span class="o">*</span> <span class="p">(</span><span class="n">A</span><span class="o">*</span><span class="n">np</span><span class="o">.</span><span class="n">sin</span><span class="p">(</span><span class="n">omega</span><span class="o">*</span><span class="n">t</span><span class="p">)</span> <span class="o">+</span> <span class="n">B</span> <span class="o">*</span> <span class="n">np</span><span class="o">.</span><span class="n">cos</span><span class="p">(</span><span class="n">omega</span> <span class="o">*</span> <span class="n">t</span><span class="p">))</span> <span class="o">-</span> <span class="n">I_app</span>  <span class="o">*</span> <span class="n">np</span><span class="o">.</span><span class="n">cos</span><span class="p">(</span><span class="n">t</span><span class="p">)</span>
 
-<span class="n">dI_by_dt</span> <span class="o">=</span> <span class="n">np</span><span class="o">.</span><span class="n">exp</span><span class="p">(</span><span class="o">-</span><span class="n">t</span><span class="o">/</span><span class="mi">2</span><span class="p">)</span> <span class="o">*</span> <span class="p">(</span><span class="n">A</span><span class="o">*</span><span class="n">omega</span><span class="o">*</span><span class="n">np</span><span class="o">.</span><span class="n">cos</span><span class="p">(</span><span class="n">omega</span><span class="o">*</span><span class="n">t</span><span class="p">)</span> <span class="o">-</span> <span class="n">B</span> <span class="o">*</span> <span class="n">omega</span> <span class="o">*</span> <span class="n">np</span><span class="o">.</span><span class="n">sin</span><span class="p">(</span><span class="n">omega</span> <span class="o">*</span> <span class="n">t</span><span class="p">)</span> <span class="o">-</span> <span class="mf">0.5</span> <span class="o">*</span> <span class="p">(</span><span class="n">A</span> <span class="o">*</span> <span class="n">np</span><span class="o">.</span><span class="n">sin</span><span class="p">(</span><span class="n">omega</span><span class="o">*</span><span class="n">t</span><span class="p">)</span> <span class="o">+</span> <span class="n">B</span> <span class="o">*</span> <span class="n">np</span><span class="o">.</span><span class="n">cos</span><span class="p">(</span><span class="n">omega</span><span class="o">*</span><span class="n">t</span><span class="p">)))</span> <span class="o">-</span> <span class="n">I_app</span>  <span class="o">*</span> <span class="n">np</span><span class="o">.</span><span class="n">sin</span><span class="p">(</span><span class="n">t</span><span class="p">)</span>
+<span class="n">dI_by_dt</span> <span class="o">=</span> <span class="n">np</span><span class="o">.</span><span class="n">exp</span><span class="p">(</span><span class="o">-</span><span class="n">t</span><span class="o">/</span><span class="mi">2</span><span class="p">)</span> <span class="o">*</span> <span class="p">(</span><span class="n">A</span><span class="o">*</span><span class="n">omega</span><span class="o">*</span><span class="n">np</span><span class="o">.</span><span class="n">cos</span><span class="p">(</span><span class="n">omega</span><span class="o">*</span><span class="n">t</span><span class="p">)</span> <span class="o">-</span> <span class="n">B</span> <span class="o">*</span> <span class="n">omega</span> <span class="o">*</span> <span class="n">np</span><span class="o">.</span><span class="n">sin</span><span class="p">(</span><span class="n">omega</span> <span class="o">*</span> <span class="n">t</span><span class="p">)</span> <span class="o">-</span> <span class="mf">0.5</span> <span class="o">*</span> <span class="p">(</span><span class="n">A</span> <span class="o">*</span> <span class="n">np</span><span class="o">.</span><span class="n">sin</span><span class="p">(</span><span class="n">omega</span><span class="o">*</span><span class="n">t</span><span class="p">)</span> <span class="o">+</span> <span class="n">B</span> <span class="o">*</span> <span class="n">np</span><span class="o">.</span><span class="n">cos</span><span class="p">(</span><span class="n">omega</span><span class="o">*</span><span class="n">t</span><span class="p">)))</span> <span class="o">+</span> <span class="n">I_app</span>  <span class="o">*</span> <span class="n">np</span><span class="o">.</span><span class="n">sin</span><span class="p">(</span><span class="n">t</span><span class="p">)</span>
 
 <span class="n">plt</span><span class="o">.</span><span class="n">figure</span><span class="p">()</span>
 <span class="n">plt</span><span class="o">.</span><span class="n">plot</span><span class="p">(</span><span class="n">t</span><span class="p">,</span> <span class="n">I</span><span class="p">)</span>
@@ -380,7 +380,7 @@ title="Print to PDF"
 </div>
 </div>
 <div class="cell_output docutils container">
-<div class="output text_plain highlight-myst-ansi notranslate"><div class="highlight"><pre><span></span>[&lt;matplotlib.lines.Line2D at 0x270faac4608&gt;]
+<div class="output text_plain highlight-myst-ansi notranslate"><div class="highlight"><pre><span></span>[&lt;matplotlib.lines.Line2D at 0x20ce1356e48&gt;]
 </pre></div>
 </div>
 <img alt="../_images/hw_510736_1_1.png" src="../_images/hw_510736_1_1.png" />
